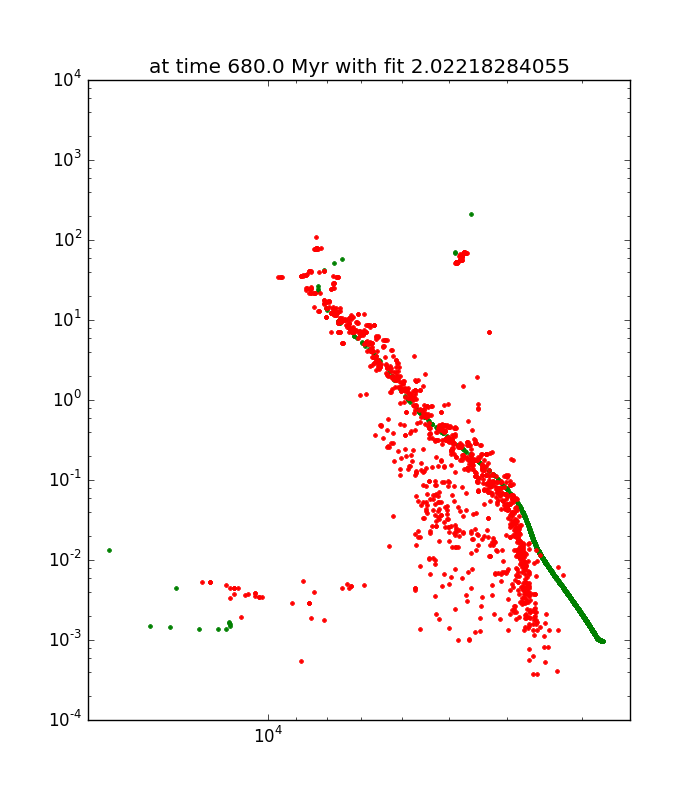
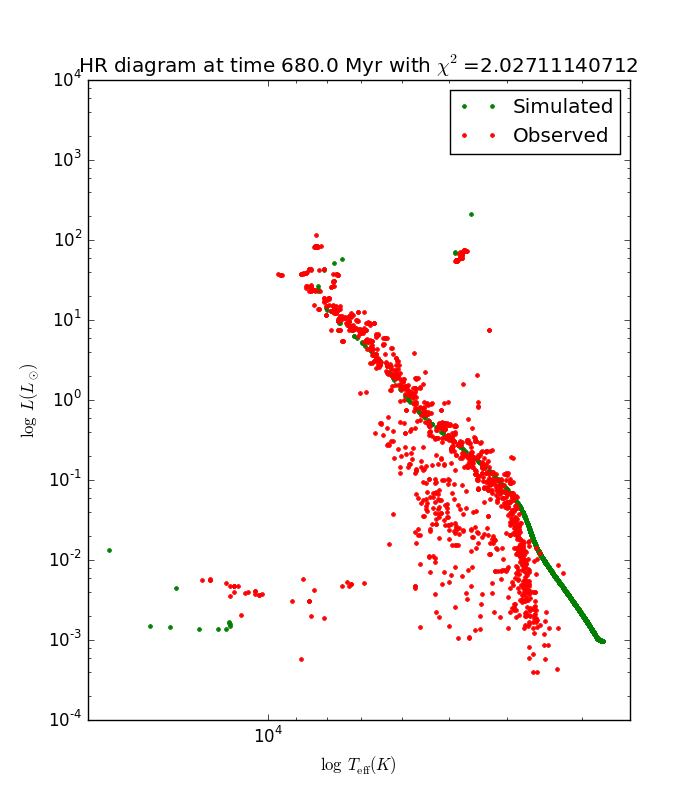
Near-complete version

diff --git a/reports/CA_SE_TLRH_s1603221_SS_s1617451_report_aa.tex b/reports/CA_SE_TLRH_s1603221_SS_s1617451_report_aa.tex
@@ -61,17 +61,18 @@ citecolor=black}
   % {} leave it empty if necessary
    {}
   % aims heading (mandatory)
-   {}
+   {To compare Henyey type and parameterized stellar evolution codes. To determine cluster age by fitting simulated Hertzsprung Russel diagrams for different cluster ages to observed color-magnitude diagrams. In particular for the Hyades and Pleiades clusters. To set up a model for gravitational dynamics of a stellar clusters combined with stellar evolution to take stellar evolution into account of gravitational systems.}
   % methods heading (mandatory)
-   {}
+   {We use the AMUSE framework to simulate HR diagrams for a given Salpeter initial mass function of a population of stars assumed to be generated at the same point in time. We neglect dust and gas in the cluster and assume a single metallicity for the cluster as a whole. Furthermore, we set up a bridge between a Barnes-Hut N-Body gravitational dynamics code and the SSE stellar evolution code.}
   % results heading (mandatory)
-   {}
+   {We find that the simulated Hyades cluster age is 680 Myr as compared the literature value of 625 $\pm$ 50 Myr. REPLACE }
   % conclusions heading (optional), leave it empty if necessary
-   {}
+   {REPLACE}
 
    \keywords{Stellar Evolution --
                 AMUSE --
-                MESA -- EVTwin
+                MESA -- EVTwin -- SSE -- SEBA
+                -- Cluster age determination
                }
 
    \maketitle
@@ -87,12 +88,14 @@ In this report, the authors have used the Astrophysical Multipurpose Software En
 On the one hand we use two Henyey-type codes: \textbf{MESA} \citep{2011ApJS..192....3P, 2013ApJS..208....4P} and \textbf{EVTwin} \citep{1971MNRAS.151..351E, 1972MNRAS.156..361E, 1973MNRAS.163..279E, 1973A&A....23..325E, 1994MNRAS.270..121H, 1995MNRAS.274..964P, 2001ASPC..229..157E, 2001ApJ...552..664N, 2002ApJ...575..461E, 2007A&A...464L..57S, 2004MNRAS.348..201E, 2008A&A...488.1007G}. On the other hand, we use two parameterized codes:  \textbf{SSE} \citep{2000MNRAS.315..543H} and \textbf{SeBa} \citep{1996A&A...309..179P, 2012A&A...546A..70T}. For a detailed explanation of the Henyey-type code we refer the reader to \cite{1959ApJ...129..628H}. As for parameterized code, we cite \cite{AMUSEdocumentation}: ``stars are parameterized by mass, radius, luminosity, core mass, etc. as functions of time and initial mass''. The star is evolved from zero-age main sequence onwards to obtain the model parameters. The algorithms are analytic fit-based which makes SSE and SEBA rapid. Table~\ref{tab:algorithms} shows a comparison of general properties for the different algorithms.
 
 In our analysis, we will evolve a star of solar mass and solar metallicity up to the current age of the Sun of 4.57 $\pm$ 0.11 Gyr \citep{2002A&A...390.1115B}. By default, the stellar evolution codes in AMUSE assume that the solar metallicity $z = 0.02$.
-In addition, we will run a simulation of a star with 10 M\Sun up to 30 Myr because we expect heavier stars to evolve more rapidly. Specifically, the expected main sequence (hydrogen burning) lifetime $\tau_H$ as a function of mass is given by \citep[][p. 347]{2012sse..book.....K}. Normalised to the Solar lifetime of 10 Gyr \citep{1993ApJ...418..457S} yields
+In addition, we will run a simulation of a star with 10 M\Sun up to 10 Myr because we expect heavier stars to evolve more rapidly. Specifically, the expected main sequence (hydrogen burning) lifetime $\tau_H$ as a function of mass is given by \citep[][p. 347]{2012sse..book.....K}. Normalised to the Solar lifetime of 10 Gyr \citep{1993ApJ...418..457S} yields
 \begin{eqnarray}
      \tau_H(M) = 10^{10} \cdot \left(\frac{M}{M\Sun}\right)^{-2.5},
-\end{eqnarray} where $M$ is the mass of the star. For a 10 solar mass star we expect the star to stay on the main sequence when it is evolved until 30 Myr.
+\end{eqnarray} where $M$ is the mass of the star. For a 10 solar mass star we expect the star to stay on the main sequence when it is evolved until 30 Myr. We therefore choose 10 Myr to stay well under the post-main sequence evolution.
 
-Table~\ref{tab:parameterspace} shows the input parameters and the results for the for different algorithms. Three interesting observations are made. Firstly, $L$, $M$ and $R$ are of order unity in solar units, as expected for solar evolution up to the current age of the Sun, save for the final stellar radius calculated using the EVTwin algorithm. This is attributed to a potentially failed build of the EVTwin algorithm which causes suspision in using the EVTwin algorithm. Secondly, the Henyey model calculation times are significantly larger than the parameterized algorithms. In this case, the Henyey runtime is an order of magnitude larger than the parameterized runtime. Lastly, SSE and SeBa yield the same results. This is not surprisingly as the algorithms are not expected to differ for one star because SeBa is a more eleborate algorithm consisting of both SSE and binary evolution code.
+Table~\ref{tab:parameterspace} shows the input parameters and the results for the for different algorithms. Three interesting observations are made. Firstly, $L$, $M$ and $R$ are of order unity in solar units, as expected for solar evolution up to the current age of the Sun, save for the final stellar radius calculated using the EVTwin algorithm. This is attributed to a potentially failed build of the EVTwin algorithm which causes doubt whether to use EVTwin algorithm. In addition, for the 10 M\Sun star the final stellar radii are comparable for MESA, SSE and SEBA but EVTwin differs significantly. Secondly, the Henyey model calculation times are significantly larger than the parameterized algorithms. In this case, the Henyey runtime is an order of magnitude larger than the parameterized runtime. Lastly, SSE and SeBa yield the same results. This is not surprisingly as the algorithms are not expected to differ for one star because SeBa is a more elaborate algorithm consisting of both SSE and binary evolution code.
+
+In order to find the same evolutionary state of an evolved star one can use a built in method in AMUSE that keeps track of the evolutionary state of a star. The input parameter space therefore need not be changed. It is interesting to perform an in-depth analysis of the final (output) parameters as a function of algorithm. We have not included this analysis in the report because we consider this outside the scope of this project because we continue the analysis using only the SSE algorithm.
 
 \begin{table*}
     \caption{General properties of the Stellar Evolution codes \citep{AMUSEdocumentation}}
@@ -124,12 +127,12 @@ Table~\ref{tab:parameterspace} shows the input parameters and the results for th
         \noalign{\smallskip}
         MESA & 0.02 & 4600 & 1.034 & 1 & 1.016 & 9.54 \\
         EVTwin  & 0.02 & 4600 & 1.027 & 1 & 0.1834 & 9.58 \\
-        SeBa & 0.02 & 4600 & 0.9585 & 1 & 0.9856 & 0.554 \\
         SSE & 0.02 & 4600 & 0.9585 & 1 & 0.9856 & 0.166 \\
-        MESA & 0.02 & 30 &  &  &  &  \\
-        EVTwin & 0.02 & 30 &  &  &  &  \\
-        SeBa & 0.02 & 30 &  &  &  &  \\
-        SSE & 0.02 & 30 &  &  &  &  \\
+        SeBa & 0.02 & 4600 & 0.9585 & 1 & 0.9856 & 0.554 \\
+        MESA & 0.02 & 10 & 7460 & 10 & 5.091 & 10.9 \\
+        EVTwin & 0.02 & 10 & 7637 & 10 & 0.8764 & 4.67  \\
+        SSE & 0.02 & 10 & 7233 & 10 & 4.930 & 0.0984 \\
+        SeBa & 0.02 & 10 & 7285 & 10 & 4.938 & 0.133 \\
         \hline
         \noalign{\smallskip}
         \noalign{\smallskip}
@@ -155,26 +158,33 @@ where $M$ the observed apparent magnitude in the V-band and $d$ the distance. He
     T = 4600 \left(\frac{1}{0.92 (B-V) + 1.7} + \frac{1}{0.92(B-V) + 0.62} \right) \label{eq:teff}.
 \end{eqnarray}
 
-Fig.~\ref{fig:bestfit} shows the converted observations in red and the numerical values in green. In this particular plot we show the best fit. To determine which cluster lifetime fits best to the observations we first need to calculate to which simulated point of the HR diagram in the main sequence, giant branch or white dwarf the observed datapoint is the nearest. We do so using a nearest neighbour algorithm. Next, we calculate two $\chi^2$ values: one for the luminosity and one for the effective temperature. Since the order of magnitude of $\chi^2$ may differ for the luminosity and the effective temperature, we normalize these values such that they are comparable. We calculate $$\chi^2_{\rm normalized} = \sqrt{\frac{\sum_{i=0}^{\rm starcount} (T_i - T_{\rm average})^2}{i}}$$, where $T_i$ is the temperature of star, $T_{\rm average}$ is the temperature averaged over all times, and $i$ is the total number of stars in the dataset. This same formula is used for the luminosities.
+Fig.~\ref{fig:bestfit} shows the converted observations in red and the numerical values in green. In this particular plot we show the best fit. To determine which cluster lifetime fits best to the observations we first need to calculate to which simulated point of the HR diagram in the main sequence, giant branch or white dwarf the observed datapoint is the nearest. We do so using a nearest neighbour algorithm. Next, we calculate two $\chi^2$ values: one for the luminosity and one for the effective temperature. Since the order of magnitude of $\chi^2$ may differ for the luminosity and the effective temperature, we normalize these values such that they are comparable. We calculate the standard deviation of all temperatures in the dataset first by
+\begin{eqnarray}
+    \text{std\_dev} = \sqrt{\frac{\sum_{t=0}^{1000 \text{ Myr}} (T_t - T_{\rm average})^2}{\text{starcount}}}, \label{eq:stdev} 
+\end{eqnarray}where $T_t$ is the temperature of star a star at time $t$, $T_{\rm average}$ is the temperature averaged over all times, and `starcount' is the total number of stars in the dataset. Using the standard deviation we can now obtain the normalized $\chi^2$, using
+\begin{eqnarray}
+    \chi^2_{\rm normalized} = \left( \frac{(T_{\rm simulated} - T_{\rm average}) - (T_{\rm observed} - T_{\rm average})}{\text{std\_dev}} \right)^2.
+\end{eqnarray}
+This same algorithm is used for the luminosities but with the $T$ replaced by $L$. Finally, the normalized $\chi^2$ values are added assuming both temperature and luminosity contribute equally (i.e. have the same weight) to the fit.
 
-Using the method described in the previous paragraph we have obtained Fig.~\ref{fig:chisq} showing the chi squared values for the cluster age in a range from 0 Myr to 1000 Myr. Note that initially our calculated $\chi^2$ is very low compared, then quickly rises, drops to a local minimum and then rises again. We contribute this behaviour to the fact from 0 to 200 Myr the heaviest stars are not yet evolved. This means that there are no stars in the giant branch and asymptotic giant branches. The luminosities are up to three decades higher for those stars causing the rise in $\chi^2$. Those stars either end as white dwarfs or go supernova, to create neutron stars or black holes. Once the white dwarfs start ascending to the lower left of the HR diagram, the main sequence begins to show show a turnoff towards the giant branches, and the giant branch just post Hertzspurung gap starts to be populated, $\chi^2$ decreases again. We expect the ZAMS turnoff point to be the most significant feature to determine the cluster age. To compare, Fig.~\ref{eq:ZAMS} clearly shows the ZAMS for a cluster of 0 Myr without a turnoff towards the giant branches. Moreover, the lower left corner contains no white dwarfs. Another interesting $\chi^2$ value is found at 810 Myr, where a single point breaks the trend. We discard this point for this reason and conclude that the age of the Hyades is 680 Myr. NB, this analysis has only been done once. To calculate a statistical average we would like to conduct the experiment multiple times using several Salpeter IMFs.
+Using the method described in the previous paragraph we have obtained Fig.~\ref{fig:chisq} showing the chi squared values for the cluster age in a range from 0 Myr to 1000 Myr. Note that initially our calculated $\chi^2$ is very low compared, then quickly rises, drops to a local minimum and then rises again. We contribute this behaviour to the fact from 0 to 200 Myr the heaviest stars are not yet evolved. This means that there are no stars in the giant branch and asymptotic giant branches. The luminosities are up to three decades higher for those stars causing the rise in $\chi^2$. Those stars either end as white dwarfs or go supernova, to create neutron stars or black holes. Once the white dwarfs start ascending to the lower left of the HR diagram, the main sequence begins to show show a turnoff towards the giant branches, and the giant branch just post Hertzspurung gap starts to be populated, $\chi^2$ decreases again. We expect the ZAMS turnoff point to be the most significant feature to determine the cluster age. To compare, Fig.~\ref{eq:ZAMS} clearly shows the ZAMS for a cluster of 0 Myr without a turnoff towards the giant branches. Moreover, the lower left corner contains no white dwarfs. Another interesting $\chi^2$ value is found at 810 Myr, where a single point breaks the trend. We discard this point for this reason and conclude that the age of the Hyades is 680 Myr. NB, this analysis has only been done once. To calculate a statistical average we would like to conduct the experiment multiple times using several Salpeter IMFs. We can therefore only state that the age of the Hyades according to the literature is 625 $\pm$ 50 Myr \citep{1998A&A...331...81P}. Both values are the same order of magnitude and differ roughly ten percent. However, we cannot say if our findings are in agreement within the error measures as our error measures are unknown.
 
 \begin{figure}
     \centering
     \includegraphics[width=\hsize]{img/test680.png}
-    \caption{REPLACE}\label{fig:bestfit}
+    \caption{HR diagram of the Hyades cluster at 680 Myr. This simulated cluster age yields the best fit to the observed data (i.e. $\chi^2$ is at a local minimum). For the simulation (green dots) we have assumed 1339 stars of metallicity $z=0.14$ following a Salpeter IMF. The red dots indicate the observed color-magnitude diagram converted to luminosity and effective temperature.}\label{fig:bestfit}
 \end{figure}
 
 \begin{figure}
     \centering
     \includegraphics[width=\hsize]{img/fitness_over_time.png}
-    \caption{REPLACE}\label{fig:chisq}
+    \caption{Plot of $\chi^2$ for each simulated cluster age. To obtain this value we summed the least squares values of the luminosity and temperature after normalization. Note that $\chi^2$ begins at a low value because all stars are ZAMS, thus, there are no stars in the giant branches. The latter category have luminosities up to three decades higher than the current vertical axis of this figure, causing $\chi^2$ to increase once stars evolve off the main sequence into the giant branches. The local minimum observed at 680 Myr is the cluster age. Also note the lower $\chi^2$ value at 810 Myr. This point clearly breaks the trend and for that reason we concluded that this is not the cluster age.}\label{fig:chisq}
 \end{figure}
 
 \begin{figure}
     \centering
     \includegraphics[width=\hsize]{img/test0.png}
-    \caption{REPLACE}\label{fig:ZAMS}
+    \caption{HR diagram of the Hyades cluster at 0 Myr. Note that since this cluster has just been generated it consists of ZAMS only. Note that main sequence follows a straight line in comparison to the main sequence cut off towards the giant branches for older clusters. This is the primary indicator to determine the cluster age, together with the white dwarfs in the lower left region and the red giants just after the Hertzsprung Gap.}\label{fig:ZAMS}
 \end{figure}
 
 
@@ -186,9 +196,9 @@ Using the method described in the previous paragraph we have obtained Fig.~\ref{
 % \end{figure}
 As stars age they loose mass. By simulating a group of stars with an appropriate distribution of different masses for the stars we can study how a cluster of stars changes in mass. The changing mass can have further repercussion for the gravitational interaction within a cluster (see section~\ref{sec:SE_GD}). 
 
-We have initialized a set of stars with the Salpeter IMF. In figure~\ref{fig:massfraction} we can see that over a 1000 Myr simulation the cluster loses about 16\% of its mass. It should be noted that we are strictly talking about mass inside stars; clusters can have mass that is contained in things like dust and gas clouds. Specifically at 680 Myr (the age derived in section~\ref{sec:isochrones}) the fraction of mass retained in stars relative to the starting mass was 84\%. 
+We have initialized a set of stars with the Salpeter IMF. In Fig.~\ref{fig:massfraction} we can see that over a 1000 Myr simulation the cluster loses about 16\% of its mass. It should be noted that we are strictly talking about mass inside stars; clusters can have mass that is contained in things like dust and gas clouds. Specifically at 680 Myr (the age derived in section~\ref{sec:isochrones}) the fraction of mass retained in stars relative to the starting mass was 84\%. 
 
-This simulation was done with parameters simulating the Hyades. The present day total mass of the Hyades cluster is about 400 M\Sun \citep{2009AIPC.1094..497B}. This would imply an initial cluster mass of $\frac{400 M\Sun}{0.84} \approx 476 M\Sun$ if we want to end up with a mass of 400 M\Sun at 680 Myr. 
+This simulation was done with parameters simulating the Hyades. The present day total mass of the Hyades cluster is about 400 M\Sun \citep{2009AIPC.1094..497B}. This would imply an initial cluster mass of $400 M\Sun/0.84 \approx 476 M\Sun$ if we want to end up with a mass of 400 M\Sun \, at 680 Myr. 
 \begin{figure}
     \centering
     \includegraphics[width=\hsize]{img/massfraction_over_time.png}
@@ -202,15 +212,15 @@ Just running an N-body code on a simulated cluster makes the implicit assumption
 
 We can integrate stellar evolution code with an N-body simulation to make our simulation more accurate. By simulating each star's evolution over time we can use this to determine the mass of each star over time. These masses can in turn be used as the input of an N-body code. By alternatingly simulating stellar evolution and gravitational interaction the N-body code will now use different masses for the same star over time.
 
-We have run the simulation with the Barnes-Hut Tree N-Body simulation code for a total period of 1000 Myr. The stellar evolution code being used is SSE. The stellar evolution is run at 10 Myr increments. The N-Body code then takes the new masses and simulates the gravitational dynamics for 10 Myr as well, with a timestep of 0.1 Myr (i.e. it uses 100 timesteps to move the gravitational simulation forward by 10 Myr).
+We have run the simulation with the Barnes-Hut Tree N-Body simulation code \citep{1986Natur.324..446B} for a total period of 1000 Myr. The stellar evolution code being used is SSE. The stellar evolution is run at 10 Myr increments. The N-Body code then takes the new masses and simulates the gravitational dynamics for 10 Myr as well, with a timestep of 0.1 Myr (i.e. it uses 100 timesteps to move the gravitational simulation forward by 10 Myr).
 
-To find the stars that are considered gravitationally bound the HOP algorithm is used \citep{1998ApJ...498..137E}. Based on this algorithm the number of bound stars in the cluster can be seen in figure~\ref{fig:bound_stars}. The cluster only looses about 7 stars at the start of the simulation and stabilizes at 7-9 unbounded stars and over 1300 that remain bounded. 
+To find the stars that are considered gravitationally bound the HOP algorithm is used \citep{1998ApJ...498..137E}. Based on this algorithm the number of bound stars in the cluster can be seen in Fig.~\ref{fig:bound_stars}. The cluster only looses about 7 stars at the start of the simulation and stabilizes at 7-9 unbounded stars and over 1300 that remain bounded. 
 
-Because the bound stars metric doesn't show a lot of change instead the clusters radius over time might be a more interesting metric. The most naive way to measure radius is to take the maximum distance a star has to the centre of the cluster. As can be seen in figure~\ref{fig:max_radius} this radius increases roughly linearly over time. Because it is determined by the outermost star, this would be consistent with a system where there is at least one star that is relatively unbound by the clusters gravity and is moving away from its centre at a roughly constant speed. 
+Because the bound stars metric doesn't show a lot of change instead the clusters radius over time might be a more interesting metric. The most naive way to measure radius is to take the maximum distance a star has to the centre of the cluster. As can be seen in Fig.~\ref{fig:max_radius} this radius increases roughly linearly over time. Because it is determined by the outermost star, this would be consistent with a system where there is at least one star that is relatively unbound by the clusters gravity and is moving away from its centre at a roughly constant speed. 
 
-More interesting is the virial radius. For our simulated cluster this was at 10 lightyears (about 3 parsecs), matching the core radius of the Hyades cluster \citep{2009AIPC.1094..497B}. As can be seen in figure~\ref{fig:virial_radius} it has a large jump at the star of the simulation and then a more slowly increasing trend.
+More interesting is the virial radius. For our simulated cluster this was at 10 lightyears (about 3 parsecs), matching the core radius of the Hyades cluster \citep{2009AIPC.1094..497B}. As can be seen in Fig.~\ref{fig:virial_radius} it has a large jump at the star of the simulation and then a more slowly increasing trend.
 
-Finally we can look at what phases of their lives the stars in the simulation are over time. We group the stars into three categories: main sequence stars, giant stars and remnant stars. In figure~\ref{fig:phases} it can be seen that the fast majority of the stars are on the main sequence and remain their during the simulation. When we only look at giant and remnant stars in figure~\ref{fig:phases_without_ms} we can see that while the number of remnant stars steadily increases, the number of giant stars at any single point in time remains relatively constant. This implies that the rate of stars entering their giant phase and burning out from the giant phase is roughly equal.
+Finally we can look at what phases of their lives the stars in the simulation are over time. We group the stars into three categories: main sequence stars, giant stars and remnant stars. In Fig.~\ref{fig:phases} it can be seen that the fast majority of the stars are on the main sequence and remain their during the simulation. When we only look at giant and remnant stars in Fig.~\ref{fig:phases_without_ms} we can see that while the number of remnant stars steadily increases, the number of giant stars at any single point in time remains relatively constant. This implies that the rate of stars entering their giant phase and burning out from the giant phase is roughly equal.
 \begin{figure}
     \centering
     \includegraphics[width=\hsize]{img/cluster_max_radius.png}
@@ -253,16 +263,17 @@ We would like to emphasize that the current value of the Solar metallicity is hi
 
 We have noticed that the dataset has double entries. This occurs, for instance, when multiple publications governing the same star exist in the literature. Consequently, some stars have erroneously been given a higher weighing factor in the least squares determination.  We, however, neglect this because (e.g. in the Hyades dataset) we have found that most stars have double entries and stars with double entries span the entire spectrum. We therefore assume that this does not significantly influence the end-result. On the other hand, future analysis can be improved by averaging the data points and calculating the observational error to be used in the least squares averaging. This will result in improving the weight factor as observations contradicting each other will be given a lower weight factor whereas observations in agreement are given a higher weight factor due to the $chi^2$ calculations.
 
-\section{Conclusions}\ref{sec:conclusions}
-
-   \begin{enumerate}
-      \item
-      \item
+\section{Conclusions}\label{sec:conclusions}
+\begin{enumerate}
+    \item We find that the age of the Hyades is 680 Myr, as compared to 625 $\pm$ 50 Myr obtained from the literature.
+    \item At present, the Hyades has lost 16\% of its mass due to stellar evolution.
+    \item Within AMUSE it is fairly easy to set up a bridge between stellar evolution code and gravitational dynamics. In the future mass loss could be added as gas in the galaxy/cluster and taken into account using the hydrodynamics code available in AMUSE.
+    \item REPLACE
    \end{enumerate}
 
 
 \begin{acknowledgements}
-The authors are grateful for the help of their supervisors Edwin van der Helm, MSc and Prof.dr. S.F. Portegies Zwart. \\
+The authors are grateful for the help of their supervisors Edwin van der Helm, MSc and Prof. dr. S.F. Portegies Zwart. \\
 
 This research has made use of the WEBDA database, operated at the Department of Theoretical Physics and Astrophysics of the Masaryk University. \\
 
